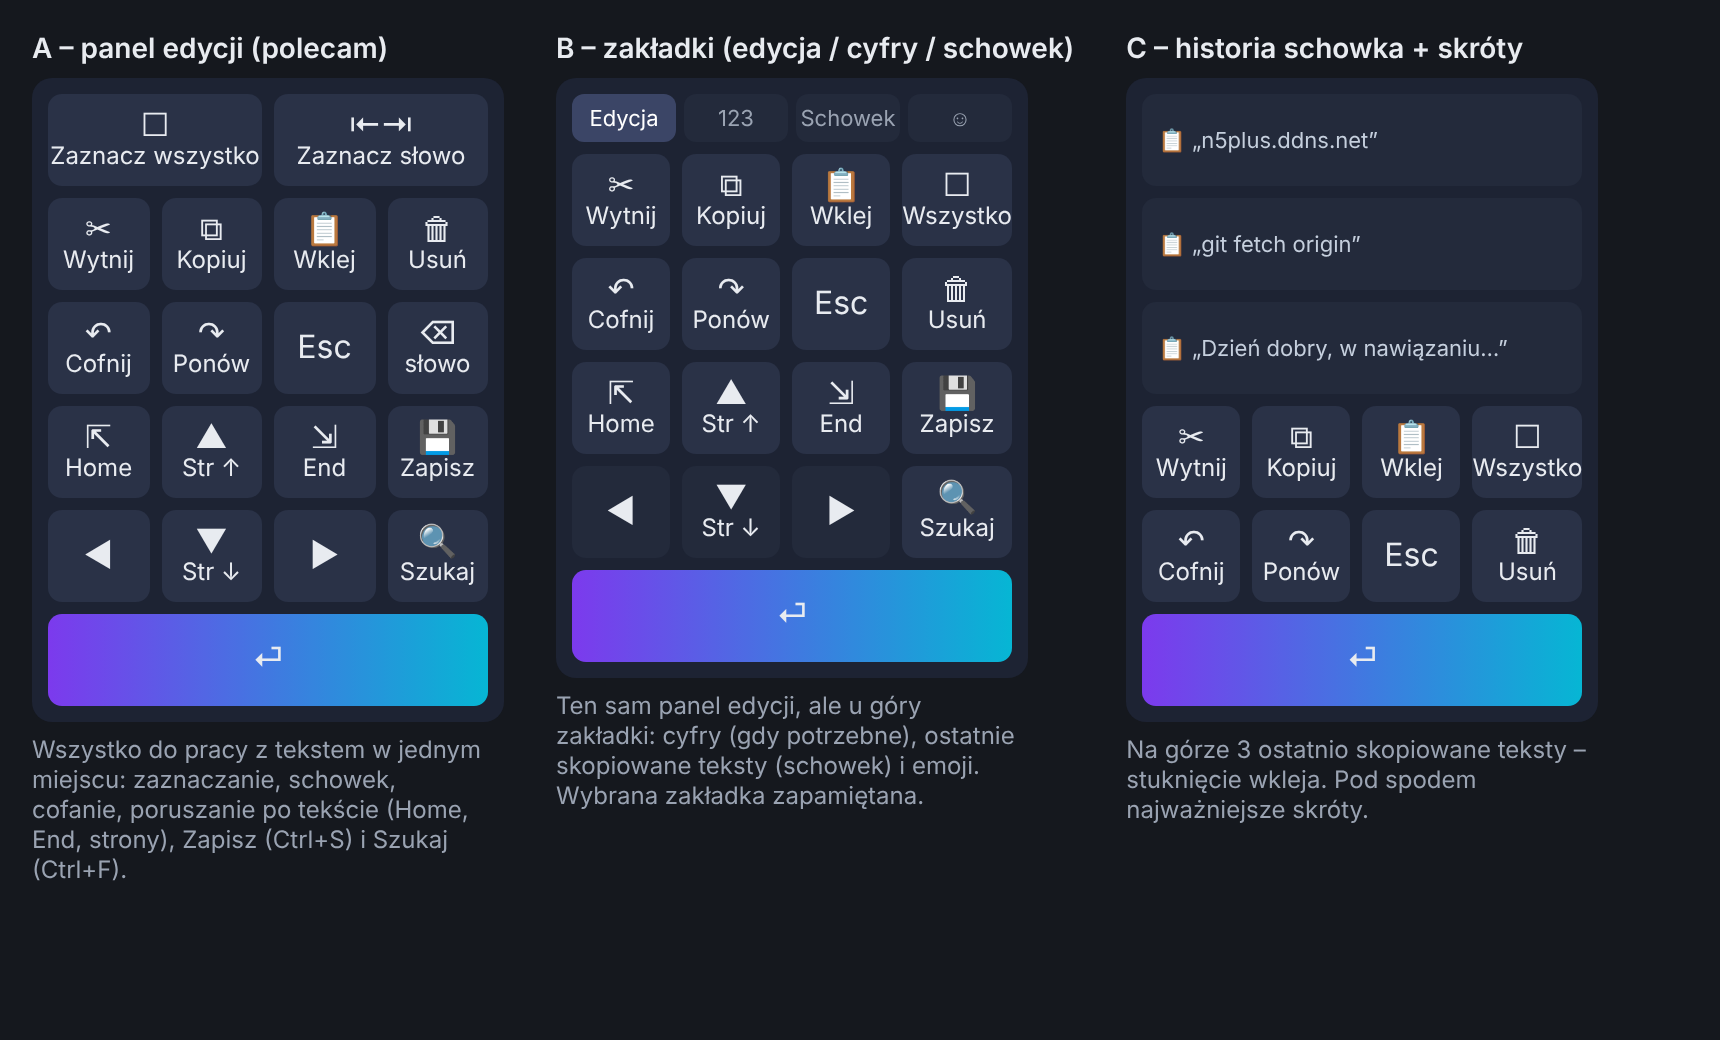
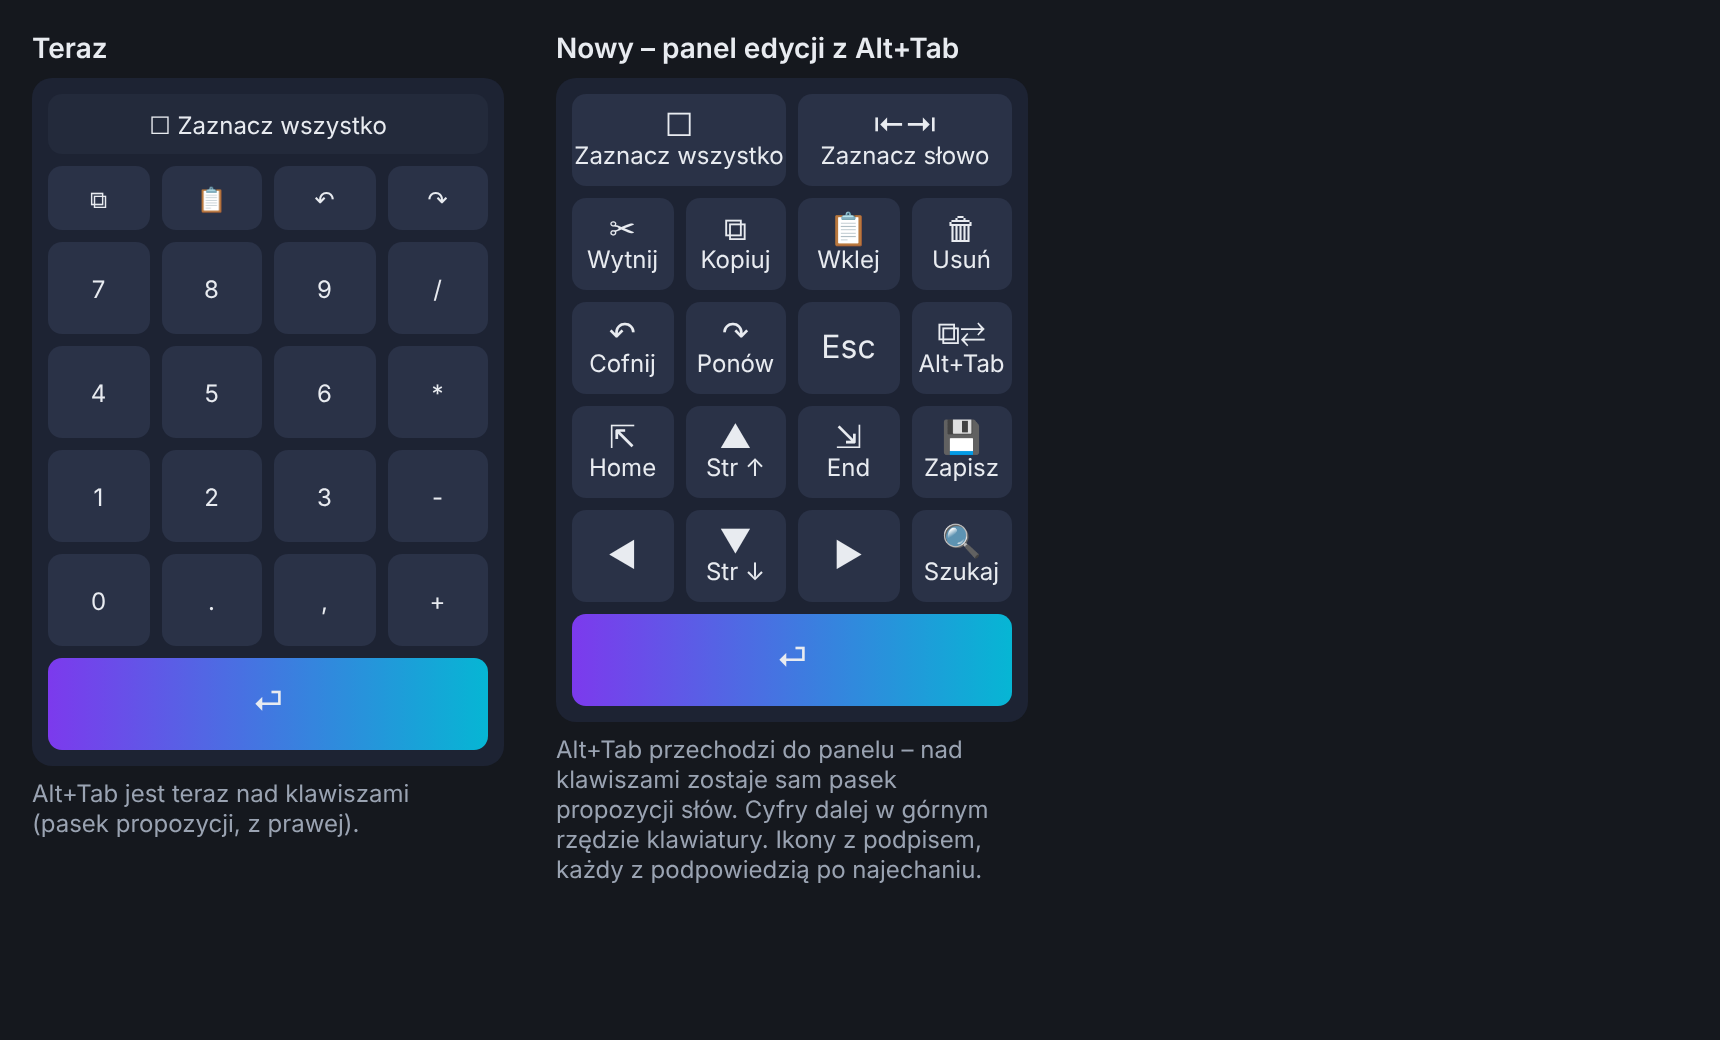
Makieta: panel edycji klawiatury z Alt+Tab
Claude-Session: https://claude.ai/code/session_01RCtN5AVBSpJ7VcZz1rMB9B

diff --git a/dokumentacja/makieta-klawiatura-panel.html b/dokumentacja/makieta-klawiatura-panel.html
@@ -8,27 +8,17 @@
 .tabs{grid-column:span 4;display:flex;gap:4px}.tab{flex:1;background:#232a3b;border-radius:6px;font-size:11px;text-align:center;padding:5px 0;color:#9aa3b2}.tab.on{background:#3b4566;color:#fff}
 </style></head><body>
 <div class="wrap">
-<div class="opt"><div class="lbl">A – panel edycji (polecam)</div><div class="p">
+<div class="opt"><div class="lbl">Teraz</div><div class="p">
+<div class="k w4 d" style="height:30px">☐ Zaznacz wszystko</div>
+<div class="k" style="height:32px">⧉</div><div class="k" style="height:32px">📋</div><div class="k" style="height:32px">↶</div><div class="k" style="height:32px">↷</div>
+<div class="k">7</div><div class="k">8</div><div class="k">9</div><div class="k">/</div><div class="k">4</div><div class="k">5</div><div class="k">6</div><div class="k">*</div>
+<div class="k">1</div><div class="k">2</div><div class="k">3</div><div class="k">-</div><div class="k">0</div><div class="k">.</div><div class="k">,</div><div class="k">+</div>
+<div class="k w4 g"><b>⏎</b></div></div><div class="sub">Alt+Tab jest teraz nad klawiszami (pasek propozycji, z prawej).</div></div>
+<div class="opt"><div class="lbl">Nowy – panel edycji z Alt+Tab</div><div class="p">
 <div class="k w2"><b>☐</b>Zaznacz wszystko</div><div class="k w2"><b>⇤⇥</b>Zaznacz słowo</div>
 <div class="k"><b>✂</b>Wytnij</div><div class="k"><b>⧉</b>Kopiuj</div><div class="k"><b>📋</b>Wklej</div><div class="k"><b>🗑</b>Usuń</div>
-<div class="k"><b>↶</b>Cofnij</div><div class="k"><b>↷</b>Ponów</div><div class="k"><b>Esc</b></div><div class="k"><b>⌫</b>słowo</div>
+<div class="k"><b>↶</b>Cofnij</div><div class="k"><b>↷</b>Ponów</div><div class="k"><b>Esc</b></div><div class="k"><b>⧉⇄</b>Alt+Tab</div>
 <div class="k"><b>⇱</b>Home</div><div class="k"><b>▲</b>Str ↑</div><div class="k"><b>⇲</b>End</div><div class="k"><b>💾</b>Zapisz</div>
 <div class="k"><b>◀</b></div><div class="k"><b>▼</b>Str ↓</div><div class="k"><b>▶</b></div><div class="k"><b>🔍</b>Szukaj</div>
-<div class="k w4 g"><b>⏎</b></div></div><div class="sub">Wszystko do pracy z tekstem w jednym miejscu: zaznaczanie, schowek, cofanie, poruszanie po tekście (Home, End, strony), Zapisz (Ctrl+S) i Szukaj (Ctrl+F).</div></div>
-
-<div class="opt"><div class="lbl">B – zakładki (edycja / cyfry / schowek)</div><div class="p">
-<div class="tabs"><div class="tab on">Edycja</div><div class="tab">123</div><div class="tab">Schowek</div><div class="tab">☺</div></div>
-<div class="k"><b>✂</b>Wytnij</div><div class="k"><b>⧉</b>Kopiuj</div><div class="k"><b>📋</b>Wklej</div><div class="k"><b>☐</b>Wszystko</div>
-<div class="k"><b>↶</b>Cofnij</div><div class="k"><b>↷</b>Ponów</div><div class="k"><b>Esc</b></div><div class="k"><b>🗑</b>Usuń</div>
-<div class="k"><b>⇱</b>Home</div><div class="k"><b>▲</b>Str ↑</div><div class="k"><b>⇲</b>End</div><div class="k"><b>💾</b>Zapisz</div>
-<div class="k d"><b>◀</b></div><div class="k d"><b>▼</b>Str ↓</div><div class="k d"><b>▶</b></div><div class="k"><b>🔍</b>Szukaj</div>
-<div class="k w4 g"><b>⏎</b></div></div><div class="sub">Ten sam panel edycji, ale u góry zakładki: cyfry (gdy potrzebne), ostatnie skopiowane teksty (schowek) i emoji. Wybrana zakładka zapamiętana.</div></div>
-
-<div class="opt"><div class="lbl">C – historia schowka + skróty</div><div class="p">
-<div class="k w4 d" style="align-items:flex-start;padding-left:8px;font-size:11px;color:#c5cfdd">📋 „n5plus.ddns.net”</div>
-<div class="k w4 d" style="align-items:flex-start;padding-left:8px;font-size:11px;color:#c5cfdd">📋 „git fetch origin”</div>
-<div class="k w4 d" style="align-items:flex-start;padding-left:8px;font-size:11px;color:#c5cfdd">📋 „Dzień dobry, w nawiązaniu…”</div>
-<div class="k"><b>✂</b>Wytnij</div><div class="k"><b>⧉</b>Kopiuj</div><div class="k"><b>📋</b>Wklej</div><div class="k"><b>☐</b>Wszystko</div>
-<div class="k"><b>↶</b>Cofnij</div><div class="k"><b>↷</b>Ponów</div><div class="k"><b>Esc</b></div><div class="k"><b>🗑</b>Usuń</div>
-<div class="k w4 g"><b>⏎</b></div></div><div class="sub">Na górze 3 ostatnio skopiowane teksty – stuknięcie wkleja. Pod spodem najważniejsze skróty.</div></div>
+<div class="k w4 g"><b>⏎</b></div></div><div class="sub">Alt+Tab przechodzi do panelu – nad klawiszami zostaje sam pasek propozycji słów. Cyfry dalej w górnym rzędzie klawiatury. Ikony z podpisem, każdy z podpowiedzią po najechaniu.</div></div>
 </div></body></html>
